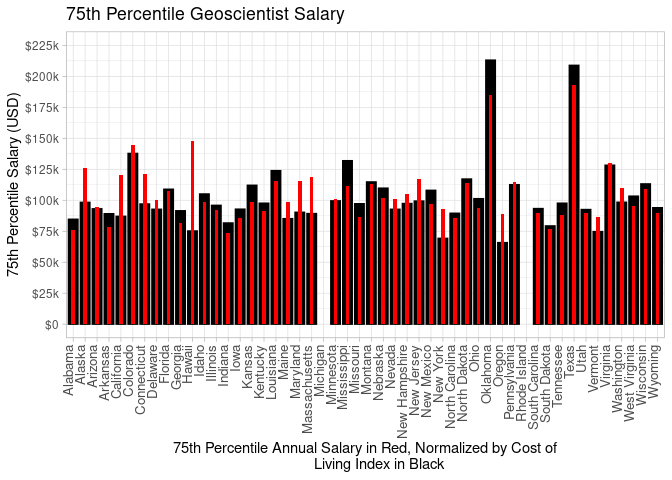
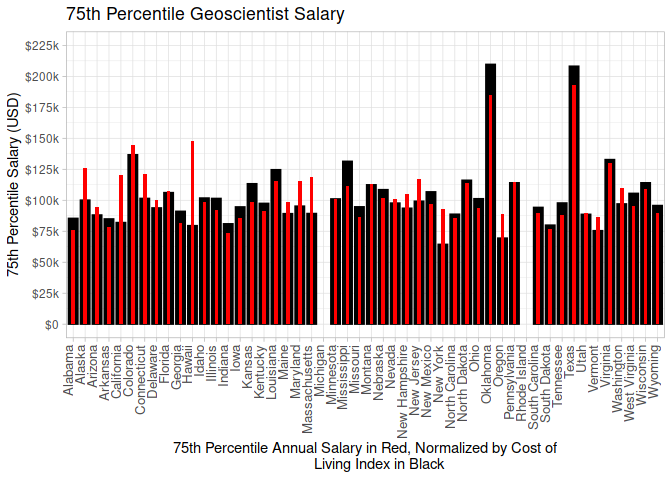
added timing

diff --git a/fin_proj/fin_proj.md b/fin_proj/fin_proj.md
@@ -3,6 +3,8 @@ Geoscience Salary Survey
 Robert LaBean
 
 ``` r
+start_time <- Sys.time()
+
 library(tidyverse)
 library(readxl)
 library(rvest)
@@ -38,17 +40,17 @@ state_list <- html_table(web_tables)[[1]]
 glimpse(state_list)
 ```
 
-    ## Rows: 53
+    ## Rows: 52
     ## Columns: 9
-    ## $ State          <chr> "Mississippi", "Oklahoma", "Arkansas", "Kansas", "Miss…
-    ## $ Rank           <chr> "1", "2", "3", "4", "5", "6", "7", "8", "9", "10", "11…
-    ## $ Index          <dbl> 84.8, 86.8, 87.8, 87.9, 88.9, 89.4, 89.4, 89.6, 90.2, …
-    ## $ Grocery        <dbl> 93.1, 94.1, 90.7, 92.8, 97.6, 99.0, 95.1, 99.7, 94.5, …
-    ## $ Housing        <dbl> 66.7, 70.1, 75.2, 71.8, 71.6, 71.3, 70.2, 80.4, 82.6, …
-    ## $ Utilities      <dbl> 91.8, 95.8, 92.7, 99.4, 97.5, 91.3, 103.3, 89.9, 92.2,…
-    ## $ Transportation <dbl> 89.9, 91.3, 86.1, 94.8, 93.9, 97.0, 92.3, 93.0, 87.7, …
-    ## $ Health         <dbl> 89.0, 93.1, 86.2, 98.4, 97.6, 97.5, 90.4, 98.2, 89.9, …
-    ## $ Misc.          <dbl> 92.0, 92.5, 95.7, 92.3, 94.3, 96.2, 97.5, 90.8, 94.4, …
+    ## $ Rank           <chr> "1", "2", "3", "4", "5", "6", "7", "8", "9", "10", "11"…
+    ## $ State          <chr> "Mississippi", "Kansas", "Oklahoma", "Alabama", "Georgi…
+    ## $ Index          <dbl> 85.1, 86.9, 88.2, 88.6, 89.8, 90.0, 90.1, 90.3, 90.5, 9…
+    ## $ Grocery        <dbl> 95.3, 90.9, 92.7, 98.0, 95.5, 95.7, 96.4, 99.0, 97.0, 9…
+    ## $ Housing        <dbl> 66.4, 72.8, 75.2, 69.5, 75.1, 79.4, 78.4, 74.7, 75.3, 8…
+    ## $ Utilities      <dbl> 90.4, 101.4, 97.4, 101.8, 91.0, 93.4, 90.3, 97.0, 97.0,…
+    ## $ Transportation <dbl> 89.7, 97.2, 93.6, 92.3, 92.9, 89.3, 86.3, 97.1, 106.3, …
+    ## $ Health         <dbl> 96.0, 100.3, 95.4, 90.9, 96.5, 91.6, 87.0, 99.3, 95.5, …
+    ## $ Misc.          <dbl> 91.6, 88.3, 92.0, 95.3, 97.3, 95.3, 98.3, 94.5, 93.4, 9…
 
 Now, I’m combining both data-sets into one. I’m also cleaning the data a
 bit as we aren’t going to be needing a lot of the information from the
@@ -88,17 +90,17 @@ salary_data$rank2 <- salary_data$ranking / max(salary_data$ranking, na.rm = TRUE
 glimpse(col_index)
 ```
 
-    ## Rows: 50
+    ## Rows: 51
     ## Columns: 9
-    ## $ State          <chr> "Alabama", "Alaska", "Arizona", "Arkansas", "Californi…
-    ## $ Rank           <chr> "7", "45", "32", "3", "50", "35", "44", "36", "29", "6…
-    ## $ Index          <dbl> 89.4, 128.0, 101.3, 87.8, 138.5, 105.0, 125.1, 107.9, …
-    ## $ Grocery        <dbl> 95.1, 132.4, 99.4, 90.7, 117.3, 99.2, 107.7, 119.9, 10…
-    ## $ Housing        <dbl> 70.2, 134.3, 102.0, 75.2, 196.5, 119.6, 142.2, 100.6, …
-    ## $ Utilities      <dbl> 103.3, 159.5, 112.3, 92.7, 122.2, 87.6, 132.9, 94.6, 1…
-    ## $ Transportation <dbl> 92.3, 117.8, 105.9, 86.1, 132.4, 101.5, 112.6, 103.6, …
-    ## $ Health         <dbl> 90.4, 150.9, 96.9, 86.2, 112.7, 103.1, 110.5, 98.6, 97…
-    ## $ Misc.          <dbl> 97.5, 112.8, 97.9, 95.7, 110.8, 101.7, 121.6, 114.7, 9…
+    ## $ Rank           <chr> "US", "4", "45", "36", "14", "49", "34", "43", "35", "3…
+    ## $ State          <chr> "***", "Alabama", "Alaska", "Arizona", "Arkansas", "Cal…
+    ## $ Index          <dbl> 100.0, 88.6, 125.7, 107.0, 92.1, 146.9, 105.8, 119.5, 1…
+    ## $ Grocery        <dbl> 100.0, 98.0, 131.9, 104.5, 93.5, 119.2, 97.1, 109.3, 11…
+    ## $ Housing        <dbl> 100.0, 69.5, 126.0, 117.8, 79.8, 221.0, 117.3, 131.2, 1…
+    ## $ Utilities      <dbl> 100.0, 101.8, 156.5, 103.7, 94.2, 117.5, 89.7, 132.0, 9…
+    ## $ Transportation <dbl> 100.0, 92.3, 115.1, 97.8, 93.3, 133.3, 108.3, 107.5, 10…
+    ## $ Health         <dbl> 100.0, 90.9, 151.5, 98.1, 83.0, 112.4, 97.8, 109.8, 105…
+    ## $ Misc.          <dbl> 100.0, 95.3, 113.8, 103.9, 101.8, 115.2, 104.9, 115.4, …
 
 Finally we’re going to normalize all the salaries with our cost of
 living index and plot it on a chart to see which states typically have
@@ -276,3 +278,13 @@ print(rank_plot1)
     ## Warning: Removed 3 rows containing missing values (position_stack).
 
 ![](fin_proj_files/figure-gfm/unnamed-chunk-8-1.png)<!-- -->
+
+``` r
+end_time <- Sys.time()
+
+run_time <- end_time - start_time
+
+print(run_time)
+```
+
+    ## Time difference of 10.71613 secs
